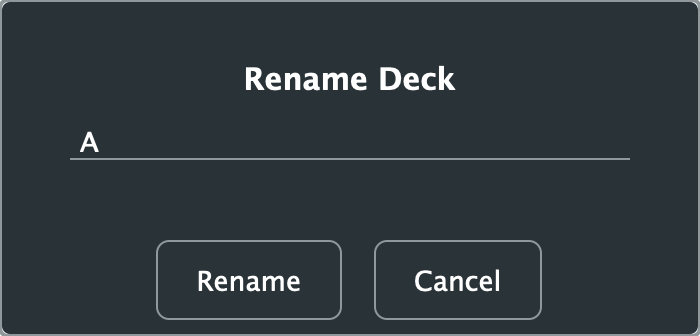
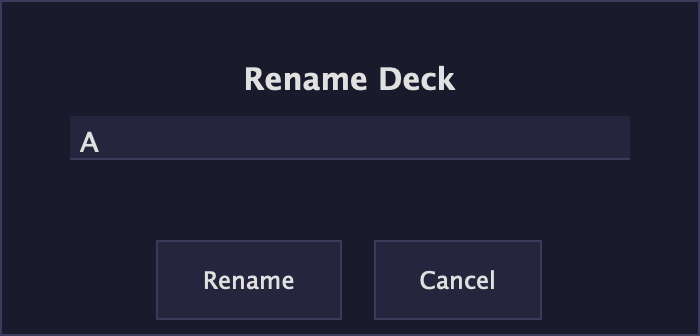
docs(s-rta-0926b): lane decks fix round - square menus + dialogs in the app LookAndFeel (ctest 625->629, hook build 18/0, final 6/0, 9 re-shot + 3 before/after PNGs)

diff --git a/.harmony/.reports/s-rta-0926b/decks.md b/.harmony/.reports/s-rta-0926b/decks.md
@@ -85,3 +85,94 @@ DONE_WITH_CONCERNS
 
 ## NEXT ACTION
 Harmony gate + Reviewer; the two design decisions under HANDOFF-NEEDS.
+
+---
+
+## Fix round (lane-name decks-fix, continued on lane/decks-0926b from 4c35272)
+
+STATUS: DONE_WITH_CONCERNS
+
+RESULT: Both MUSTs are fixed. The deck-tab menu, the "+" menu, the library row menu, Rename Deck, the Open-Composition
+confirm and Delete from Library now draw with the app LookAndFeel: square panels, a 1-px kPanelBorder, app colours,
+and no JUCE alert icons. The re-shoot turned up two more defects, both fixed. (1) The plan6 menus were never drawn
+in the app LookAndFeel: JUCE's stock striped grey-teal was used, so the base report's "05: app LookAndFeel" was
+wrong. (2) Once a dialog took the app LookAndFeel, its message printed twice. There are two fix commits (79c5502,
+ad9eb0d) plus this report commit. ctest went from 625 to 629 of 629. Live probe: hook build 18 PASS / 0 FAIL; final
+hook-free build 6 PASS / 0 FAIL. The hook is reverted, the app rebuilt, and `strings | grep -c AUDIODNA_DEBUG_` = 0.
+
+FACTS (worktree-relative):
+- MUST 1 (dialogs), root cause confirmed in JUCE source. `AlertWindow::showOkCancelBox` creates the window through
+  `associatedComponent->getLookAndFeel().createAlertWindow(...)` (`build/_deps/juce-src/modules/juce_gui_basics/detail/juce_AlertWindowHelpers.h:82-85`).
+  The window itself is top-level, so its `getLookAndFeel()` falls back to the default. `LookAndFeel_V4::drawAlertBox`
+  draws a 4-px rounded panel and the icons (`lookandfeel/juce_LookAndFeel_V4.cpp:414-484`).
+  Fix: `AudioDNALookAndFeel::createAlertWindow` calls `aw->setLookAndFeel(this)` and then re-applies V4's 50-px
+  margin. `drawAlertBox` draws a square fillRect/drawRect with no icon. The AlertWindow colours are set in the
+  constructor (`src/ui/LookAndFeel.cpp`). Rename Deck: `w->setLookAndFeel(&lookAndFeel_)` (`src/MainComponent.cpp`
+  renameDeck). The replace-confirm (`MainComponent::confirmReplaceShow`) and Delete from Library
+  (`src/ui/CompDecksBrowser.cpp` confirmDelete) already pass `this`; both now pass `NoIcon`. CompDecksBrowser
+  needed no LookAndFeel reference.
+- MUST 2 (menus): `drawPopupMenuBackground` is now fillRect/drawRect, matching `drawButtonBackground`.
+- Found by the re-shoot, fixed in ad9eb0d:
+  - A PopupMenu uses its own LookAndFeel or its parent's (`menus/juce_PopupMenu.cpp:1314-1317`, `:357`).
+    `.withParentComponent(getTopLevelComponent())` parents it to the DocumentWindow, which has no LookAndFeel, so
+    the plan6 menus drew stock (`LookAndFeel_V2::drawPopupMenuBackground` stripes). This means MUST 2's
+    "rounded" was true of our function, but that function never drew these three menus. Each menu now calls
+    `menu.setLookAndFeel(&getLookAndFeel())`, the way juce::ComboBox does (`src/ui/DeckView.cpp` x2,
+    `src/ui/CompDecksBrowser.cpp`). Pixel (100,700) of the 05 snapshot: `(50, 62, 68)` before, `(37, 37, 64)`
+    (kSurface) after.
+  - With the app LookAndFeel, the AlertWindow's hidden accessibility Label (text colour transparentBlack,
+    `windows/juce_AlertWindow.cpp:64`) was drawn in kTextPrimary. `drawLabel` mapped transparent to kTextPrimary,
+    so every message appeared twice (`decks-shots/fixround-mid-07-replace-confirm-doubled-text.png`). A
+    transparent text colour now draws no text. No Label in `src/` sets one (`grep` = empty), and in JUCE only
+    AlertWindow's does.
+- RED lines (verbatim, pre-fix code):
+  - Run 1: `test_lookandfeel_square.cpp:37: FAILED ... corner 0, 59 = 00000000`; `:59: FAILED: CHECK( &aw->getLookAndFeel() == &laf ) with expansion: 0x000000015b736d90 == 0x000000016ee1da28`; `:65 ... size 400x231, corners 868C969A 868C969A, left edge FF263238`; `test cases:  3 |  3 failed` / `assertions: 14 | 3 passed | 11 failed`.
+  - Run 2: `test_lookandfeel_square.cpp:117: FAILED: CHECK( painted == 0 ) with expansion: 1352 (0x548) == 0`; `test cases:  4 |  3 passed | 1 failed`.
+- GREEN lines: `All tests passed (14 assertions in 3 test cases)` → `All tests passed (16 assertions in 4 test cases)`.
+  Full serial ctest after 79c5502: `100% tests passed, 0 tests failed out of 628`. After ad9eb0d:
+  `100% tests passed, 0 tests failed out of 629`.
+- Live dialog corners (Quartz window captures). Pixels (0,0)/(w-1,0)/(0,h-1)/(w-1,h-1):
+  - Before: `(128, 128, 128, 2)` each, meaning the rounded corner lets the desktop through.
+  - After: `(58, 58, 90, 255)` = kPanelBorder, for 06, 07 and 10.
+- Hook: the saved patch (sha256 `ee75761d86c04b20…`) was applied, the app built with `strings` count 3, and the
+  shots were taken. Then `git apply -R` and a full rebuild: binary mtime `Sep 27 01:57:09`, `git diff --stat --
+  src/MainComponent.cpp` empty, `grep -c AUDIODNA_DEBUG_ src/MainComponent.cpp` = 0,
+  `strings build-lane/.../Audio-DNA | grep -c AUDIODNA_DEBUG_` = 0.
+- Live runs: `run-fix-after` 18/0 (the doubled-text witness), `run-fix2-after` 18/0, `run-fix3-after` 18/0 (the
+  shipped shots, `decks-shots/probe-fixround-hook.txt`), and `run-fixfinal-after1` hook-free 6/0
+  (`decks-shots/probe-fixround-final.txt`). Each run held `/tmp/audiodna-live.lock` (owner `decks <pid> <epoch>`,
+  AUDIODNA_LOCK_OWNER=decks) and released only its own lock. Each ended with `Audio-DNA processes now: 0`. The
+  temp library file and dir were created by the probe and removed on exit, as in the base round.
+
+SHOTS re-taken (in `decks-shots/`): 04-plus-menu, 05-deck-menu, 09-library-menu (app colours, square),
+06-rename-dialog(+window), 07-replace-confirm(+window), 10-library-delete-confirm(+window) (square, no icon, message
+once). Before/after evidence: fixround-before-05-deck-menu.png (stock striped menu),
+fixround-before-07-replace-confirm.png (rounded, icon), fixround-mid-07-replace-confirm-doubled-text.png. Shots
+01-03, 08 and 11 are unchanged surfaces and were not replaced.
+
+SHOULDs:
+- (a) Other AlertWindows use the default LookAndFeel. Not changed, per the finding. The 13 `showMessageBoxAsync`
+  calls pass no associated component, so they still draw stock and rounded. This includes this lane's Load/Save
+  Deck failure alerts. Passing `this` to each would restyle it. That needs an app-wide decision.
+- (b) The legacy Decks folder collision. Unchanged; needs a human decision.
+- (c) The menu-bar "Deck" menu shot. Not possible under the rig: it needs window-only capture, no synthetic input,
+  and the macOS menu bar is not an app window. Source evidence: `src/ui/MenuBarModel.cpp:9`
+  (`"Audio-DNA", "Composition", "Deck", ...`) and `:85-95` (New / ... / Rename Deck... / ... / Remove Deck).
+
+FOUND, NOT FIXED:
+- Other menus still draw with the stock LookAndFeel: MacroPanel.cpp:138, UniversalParamControl.cpp:376/388,
+  SignalBar.cpp:192. They have no menu LookAndFeel and no in-app parent.
+- AudioDNALookAndFeel still rounds other surfaces: the toggle box (3 px), the toggle hover highlight (4 px), the
+  linear-slider tracks, the knob pointer and the scrollbar thumb (`src/ui/LookAndFeel.cpp` fillRoundedRectangle
+  sites). This conflicts with "no rounded corners, anywhere" and is outside these findings.
+- The replace/delete dialogs are narrower than in the base shots because the 80-px icon column is gone
+  (07: 982 to 822 px wide at 2x). Intended.
+
+UNKNOWNS: the real mouse paths (right-click, choosers, button clicks) are still not driven live (rig: no synthetic
+input). The dialogs' keyboard shortcuts come from LookAndFeel_V2::createAlertWindow and are unchanged.
+
+HANDOFF-NEEDS: Harmony gate (rebuild; `ctest --test-dir build-lane` = 629/629; `.harmony/probe-deck-tabs.sh` 6/0;
+`git show 79c5502 ad9eb0d -- src/MainComponent.cpp` shows no hook) and the Reviewer. Decisions for Boris/Harmony: the
+remaining stock menus and alerts, the other rounded LookAndFeel draws, and the legacy Decks folder.
+
+INBOX-RECHECK: none

diff --git a/.harmony/notebook.md b/.harmony/notebook.md
@@ -1636,4 +1636,9 @@ hand-written functions with no shared layout model.
   `new AlertWindow` needs its own setLookAndFeel(&lookAndFeel_). drawAlertBox draws no icon -- pass NoIcon (an icon
   type still reserves 80 px and left-justifies the text). The showMessageBoxAsync calls pass no component, so they
   still draw stock/rounded until someone passes one.
+- A juce::PopupMenu takes ITS OWN LookAndFeel (menu.setLookAndFeel) or its parent's: `.withParentComponent(
+  getTopLevelComponent())` parents it to the DocumentWindow, which has none, so it draws STOCK (V2 grey-teal stripes)
+  -- not AudioDNALookAndFeel. plan6's three menus now call menu.setLookAndFeel(&getLookAndFeel()) (as ComboBox does);
+  MacroPanel / UniversalParamControl / SignalBar menus still draw stock. AudioDNALookAndFeel::drawLabel draws NO text
+  for a transparent text colour (AlertWindow's hidden accessibility label would otherwise double every message).
 - Valid while DeckView/CompDecksBrowser keep this shape and JUCE's PopupMenu keeps the foreground check.
